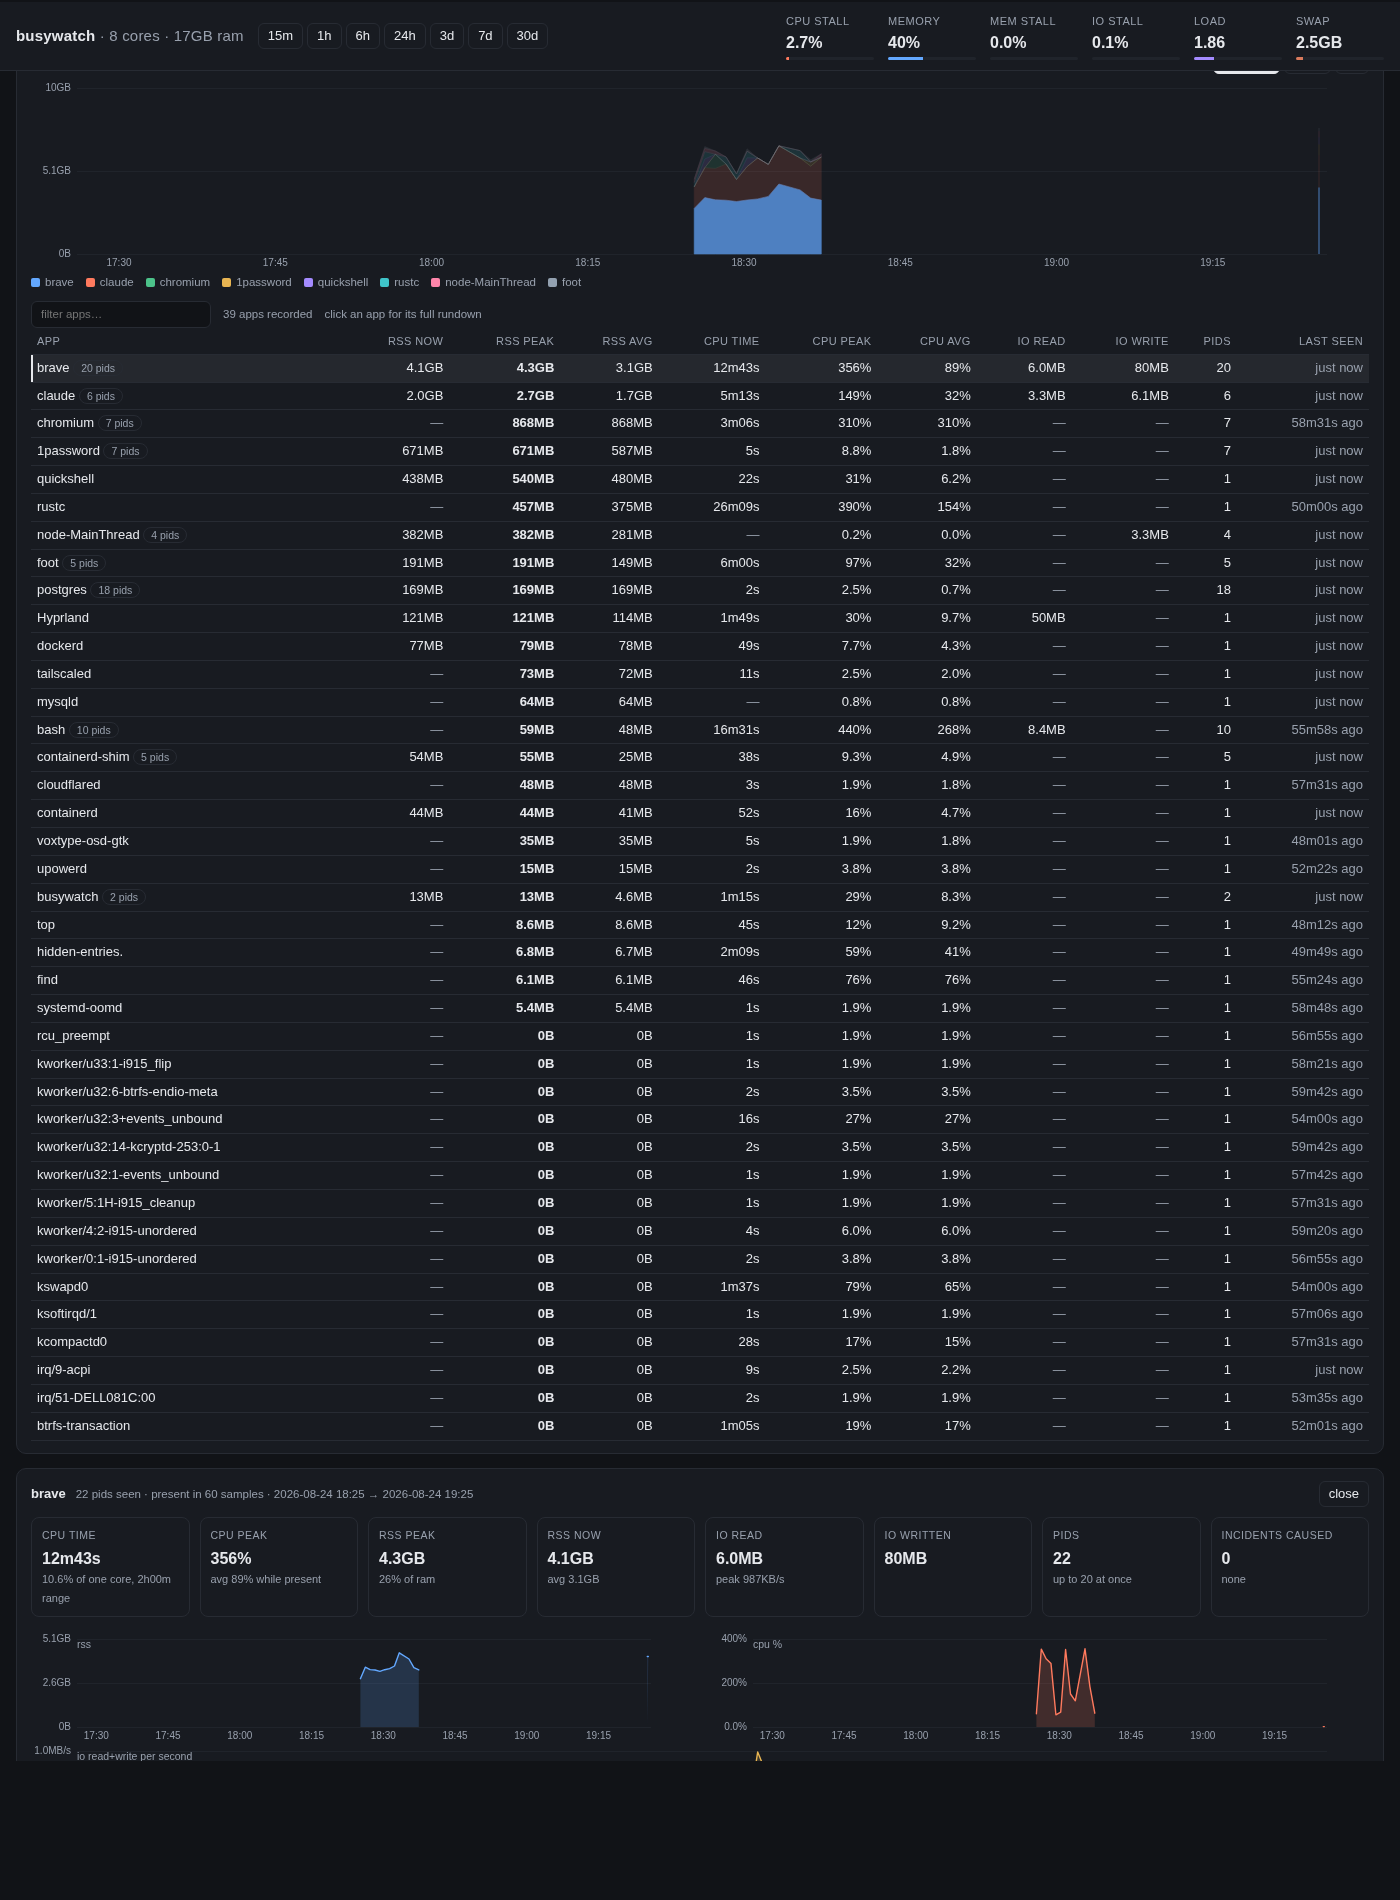
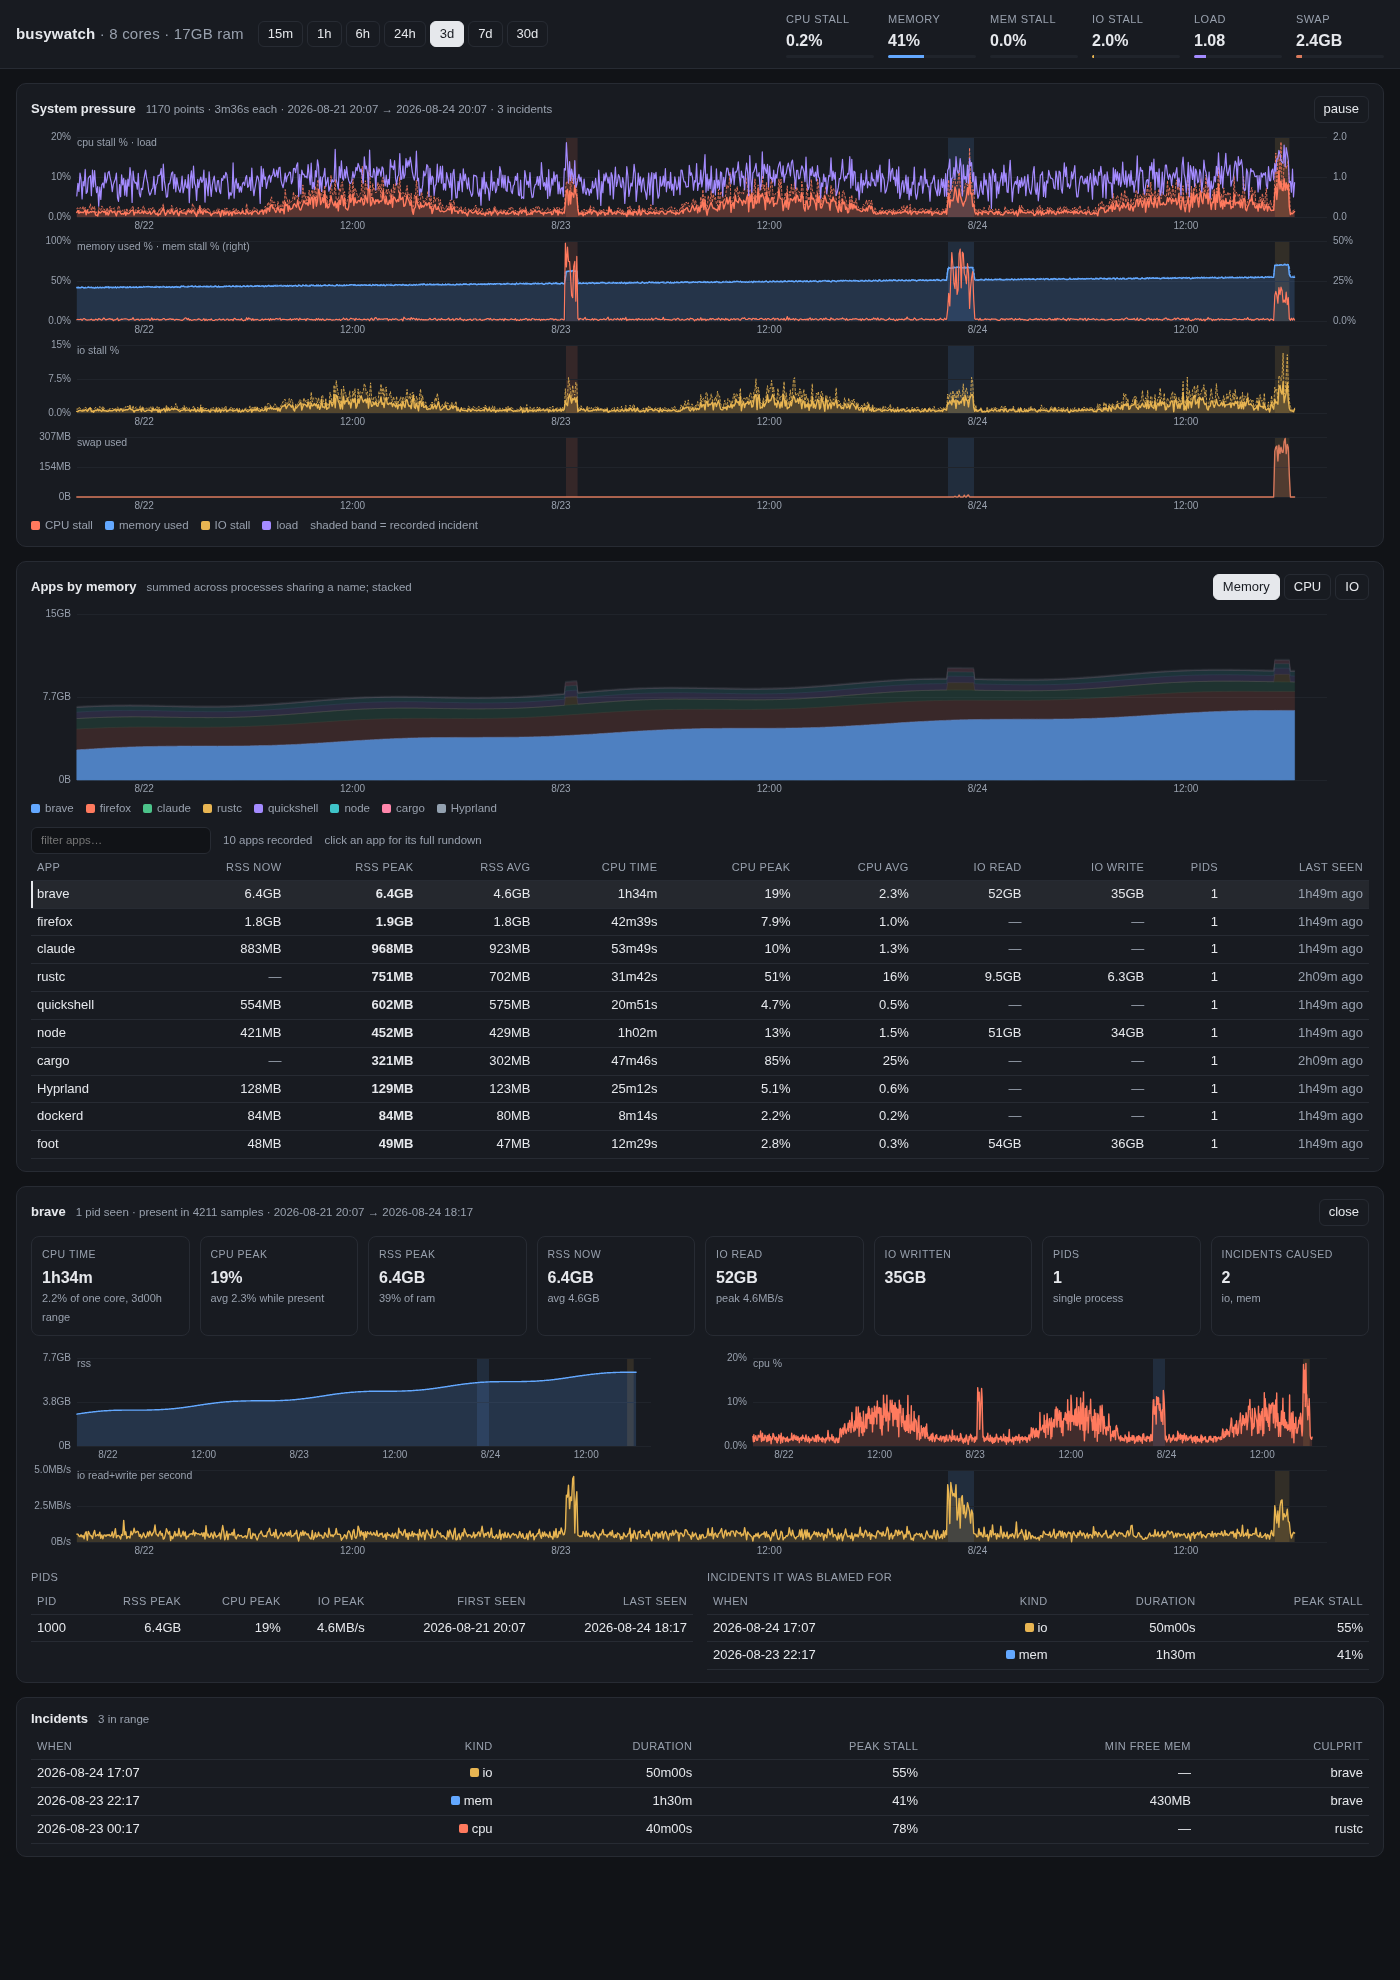
Keep reads working on databases written by older versions
A read-only connection cannot migrate a file, so every query has to cope
with whatever schema it finds. The per-app queries referenced app_sample
unconditionally, which made `busywatch web --db old.db` and `busywatch hogs
--db old.db` fail and render as "0 apps recorded" — the running daemon was
unaffected because it migrates on open, so this only bit copies, backups and
databases from an earlier build.

Queries now pick their source from what the file actually has.

Also: restore the default SIGPIPE handler, so `busywatch hogs | head` exits
quietly instead of panicking, and add the MIT LICENSE file that Cargo.toml
has always claimed. The README screenshot is regenerated from sample data
rather than a real desktop's process list.

Claude-Session: https://claude.ai/code/session_01DG7Q6vKqDm7ExnsRHTkmEY

diff --git a/src/db.rs b/src/db.rs
@@ -533,6 +533,17 @@ const GAP_CAP: i64 = 300;
 
 /// Per-timestamp totals per command, with the weight (seconds) each one
 /// stands for.  The building block of every "how much did it use" query.
+/// True when this database has the table at all.  A read-only connection
+/// cannot migrate one, so every query has to cope with an older file.
+fn has_table(conn: &Connection, name: &str) -> bool {
+    conn.query_row(
+        "SELECT 1 FROM sqlite_master WHERE type = 'table' AND name = ?1",
+        [name],
+        |_| Ok(()),
+    )
+    .is_ok()
+}
+
 /// Per-app rows are authoritative; timestamps predating them (history from
 /// busywatch 0.1, or from before this version) are reconstructed from the
 /// per-pid rows, which undercount many-process apps but are all that exists.
@@ -550,6 +561,21 @@ const INST_CTE: &str = "
          SELECT *, MIN(COALESCE(ts - LAG(ts) OVER (PARTITION BY comm ORDER BY ts), 60), ?5) dt
            FROM inst)";
 
+/// The same, for a database written before per-app rows existed.
+const INST_CTE_PIDS: &str = "
+    WITH inst AS (
+         SELECT ts, comm, SUM(rss_kb) rss, SUM(cpu_pct) cpu,
+                SUM(io_rd_ps) rd, SUM(io_wr_ps) wr, COUNT(DISTINCT pid) pids
+           FROM consumer WHERE ts BETWEEN ?1 AND ?2 AND (?4 = '' OR comm = ?4)
+          GROUP BY ts, comm),
+         w AS (
+         SELECT *, MIN(COALESCE(ts - LAG(ts) OVER (PARTITION BY comm ORDER BY ts), 60), ?5) dt
+           FROM inst)";
+
+fn inst_cte(conn: &Connection) -> &'static str {
+    if has_table(conn, "app_sample") { INST_CTE } else { INST_CTE_PIDS }
+}
+
 /// Top processes in a range by `metric` ("mem" | "cpu" | "io").  Values are
 /// summed across the pids sharing a command name at each instant, then
 /// aggregated over time — so a browser's many processes count as one hog.
@@ -566,13 +592,14 @@ pub fn hogs(
         _ => "rss_max DESC",
     };
     let sql = format!(
-        "{INST_CTE}
+        "{cte}
          SELECT comm,
                 MAX(rss) rss_max, AVG(rss) rss_avg,
                 MAX(cpu) cpu_max, AVG(cpu) cpu_avg, SUM(cpu/100.0*dt) cpu_secs,
                 MAX(rd+wr) io_max, SUM(rd*dt) io_rd, SUM(wr*dt) io_wr,
                 MAX(pids), COUNT(*), MIN(ts), MAX(ts)
-           FROM w GROUP BY comm ORDER BY {order} LIMIT ?3"
+           FROM w GROUP BY comm ORDER BY {order} LIMIT ?3",
+        cte = inst_cte(conn)
     );
     let mut stmt = conn.prepare(&sql)?;
     let rows = stmt.query_map(params![from, to, limit as i64, "", GAP_CAP], |r| {
@@ -599,15 +626,19 @@ pub fn hogs(
     // query for the whole last sample, not one per row.
     let mut last: HashMap<String, i64> = HashMap::new();
     {
-        let mut stmt = conn.prepare(
+        let sql = if has_table(conn, "app_sample") {
             "SELECT comm, rss_kb FROM app_sample
               WHERE ts = (SELECT MAX(ts) FROM app_sample WHERE ts <= ?1)
              UNION ALL
              SELECT comm, SUM(rss_kb) FROM consumer
               WHERE ts = (SELECT MAX(ts) FROM consumer WHERE ts <= ?1)
                 AND NOT EXISTS (SELECT 1 FROM app_sample a WHERE a.ts <= ?1)
-              GROUP BY comm",
-        )?;
+              GROUP BY comm"
+        } else {
+            "SELECT comm, SUM(rss_kb) FROM consumer
+              WHERE ts = (SELECT MAX(ts) FROM consumer WHERE ts <= ?1) GROUP BY comm"
+        };
+        let mut stmt = conn.prepare(sql)?;
         let it = stmt.query_map([to], |r| Ok((r.get::<_, String>(0)?, r.get::<_, f64>(1)? as i64)))?;
         for row in it {
             let (c, v) = row?;
@@ -648,12 +679,13 @@ pub fn app_summary(
     to: i64,
 ) -> rusqlite::Result<AppSummary> {
     let sql = format!(
-        "{INST_CTE}
+        "{cte}
          SELECT COUNT(*), MIN(ts), MAX(ts), SUM(dt),
                 MAX(rss), AVG(rss),
                 MAX(cpu), AVG(cpu), SUM(cpu/100.0*dt),
                 MAX(rd+wr), SUM(rd*dt), SUM(wr*dt), MAX(pids)
-           FROM w"
+           FROM w",
+        cte = inst_cte(conn)
     );
     let mut stmt = conn.prepare(&sql)?;
     let mut a = stmt.query_row(params![from, to, 0i64, comm, GAP_CAP], |r| {
@@ -676,17 +708,20 @@ pub fn app_summary(
             pids_seen: 0,
         })
     })?;
-    a.rss_last_kb = conn
-        .query_row(
-            "SELECT COALESCE(
+    let last_sql = if has_table(conn, "app_sample") {
+        "SELECT COALESCE(
                  (SELECT rss_kb FROM app_sample
                    WHERE comm = ?1 AND ts <= ?2 ORDER BY ts DESC LIMIT 1),
                  (SELECT SUM(rss_kb) FROM consumer
                    WHERE comm = ?1
-                     AND ts = (SELECT MAX(ts) FROM consumer WHERE comm = ?1 AND ts <= ?2)))",
-            params![comm, to],
-            |r| r.get::<_, Option<f64>>(0),
-        )
+                     AND ts = (SELECT MAX(ts) FROM consumer WHERE comm = ?1 AND ts <= ?2)))"
+    } else {
+        "SELECT (SELECT SUM(rss_kb) FROM consumer
+                   WHERE comm = ?1
+                     AND ts = (SELECT MAX(ts) FROM consumer WHERE comm = ?1 AND ts <= ?2))"
+    };
+    a.rss_last_kb = conn
+        .query_row(last_sql, params![comm, to], |r| r.get::<_, Option<f64>>(0))
         .ok()
         .flatten()
         .unwrap_or(0.0) as i64;
@@ -781,23 +816,36 @@ pub fn hog_series(
         _ => ("rss_kb", "SUM(rss_kb)"),
     };
     let holes = comms.iter().map(|_| "?").collect::<Vec<_>>().join(",");
-    let sql = format!(
-        "WITH inst AS (
-             SELECT ts, comm, {app_expr} v FROM app_sample
+    let apps = has_table(conn, "app_sample");
+    let inner = if apps {
+        format!(
+            "SELECT ts, comm, {app_expr} v FROM app_sample
               WHERE ts BETWEEN ?1 AND ?2 AND comm IN ({holes})
              UNION ALL
              SELECT ts, comm, {pid_expr} v FROM consumer c
               WHERE ts BETWEEN ?1 AND ?2 AND comm IN ({holes})
                 AND NOT EXISTS (SELECT 1 FROM app_sample a WHERE a.ts = c.ts)
-              GROUP BY ts, comm)
-         SELECT (ts/?)*? b, comm, MAX(v) FROM inst GROUP BY b, comm ORDER BY b"
-    );
+              GROUP BY ts, comm"
+        )
+    } else {
+        format!(
+            "SELECT ts, comm, {pid_expr} v FROM consumer
+              WHERE ts BETWEEN ?1 AND ?2 AND comm IN ({holes})
+              GROUP BY ts, comm"
+        )
+    };
+    let sql =
+        format!("WITH inst AS ({inner})
+         SELECT (ts/?)*? b, comm, MAX(v) FROM inst GROUP BY b, comm ORDER BY b");
     let mut stmt = conn.prepare(&sql)?;
     let mut args: Vec<Box<dyn rusqlite::ToSql>> = vec![Box::new(from), Box::new(to)];
-    // ?1/?2 are named, so the two comm lists that follow are positional from
-    // ?3 onward — each branch of the UNION needs its own copy.
-    for c in comms.iter().chain(comms.iter()) {
-        args.push(Box::new(c.clone()));
+    // ?1/?2 are named, so the comm lists that follow are positional from ?3
+    // onward — one copy per branch of the query.
+    let copies = if apps { 2 } else { 1 };
+    for _ in 0..copies {
+        for c in comms {
+            args.push(Box::new(c.clone()));
+        }
     }
     let b = bucket.max(1);
     args.push(Box::new(b));

diff --git a/src/main.rs b/src/main.rs
@@ -1019,6 +1019,10 @@ fn cmd_detail(db_path: &Path) -> i32 {
 }
 
 fn main() {
+    // Rust ignores SIGPIPE, so `busywatch hogs | head` panics on the write
+    // that follows the closed pipe.  Restore the default: die quietly.
+    unsafe { libc::signal(libc::SIGPIPE, libc::SIG_DFL) };
+
     let args: Vec<String> = std::env::args().skip(1).collect();
     let sub = args.first().map(String::as_str).unwrap_or("");
     let rest = if args.is_empty() { &[][..] } else { &args[1..] };

diff --git a/README.md b/README.md
@@ -110,6 +110,8 @@ busywatch --web                  # or serve from the watcher itself
 
 ![the history UI](doc/ui.png)
 
+*(screenshot shows generated sample data)*
+
 
 
 The page charts cpu / memory / io stall, load, memory used and swap over
